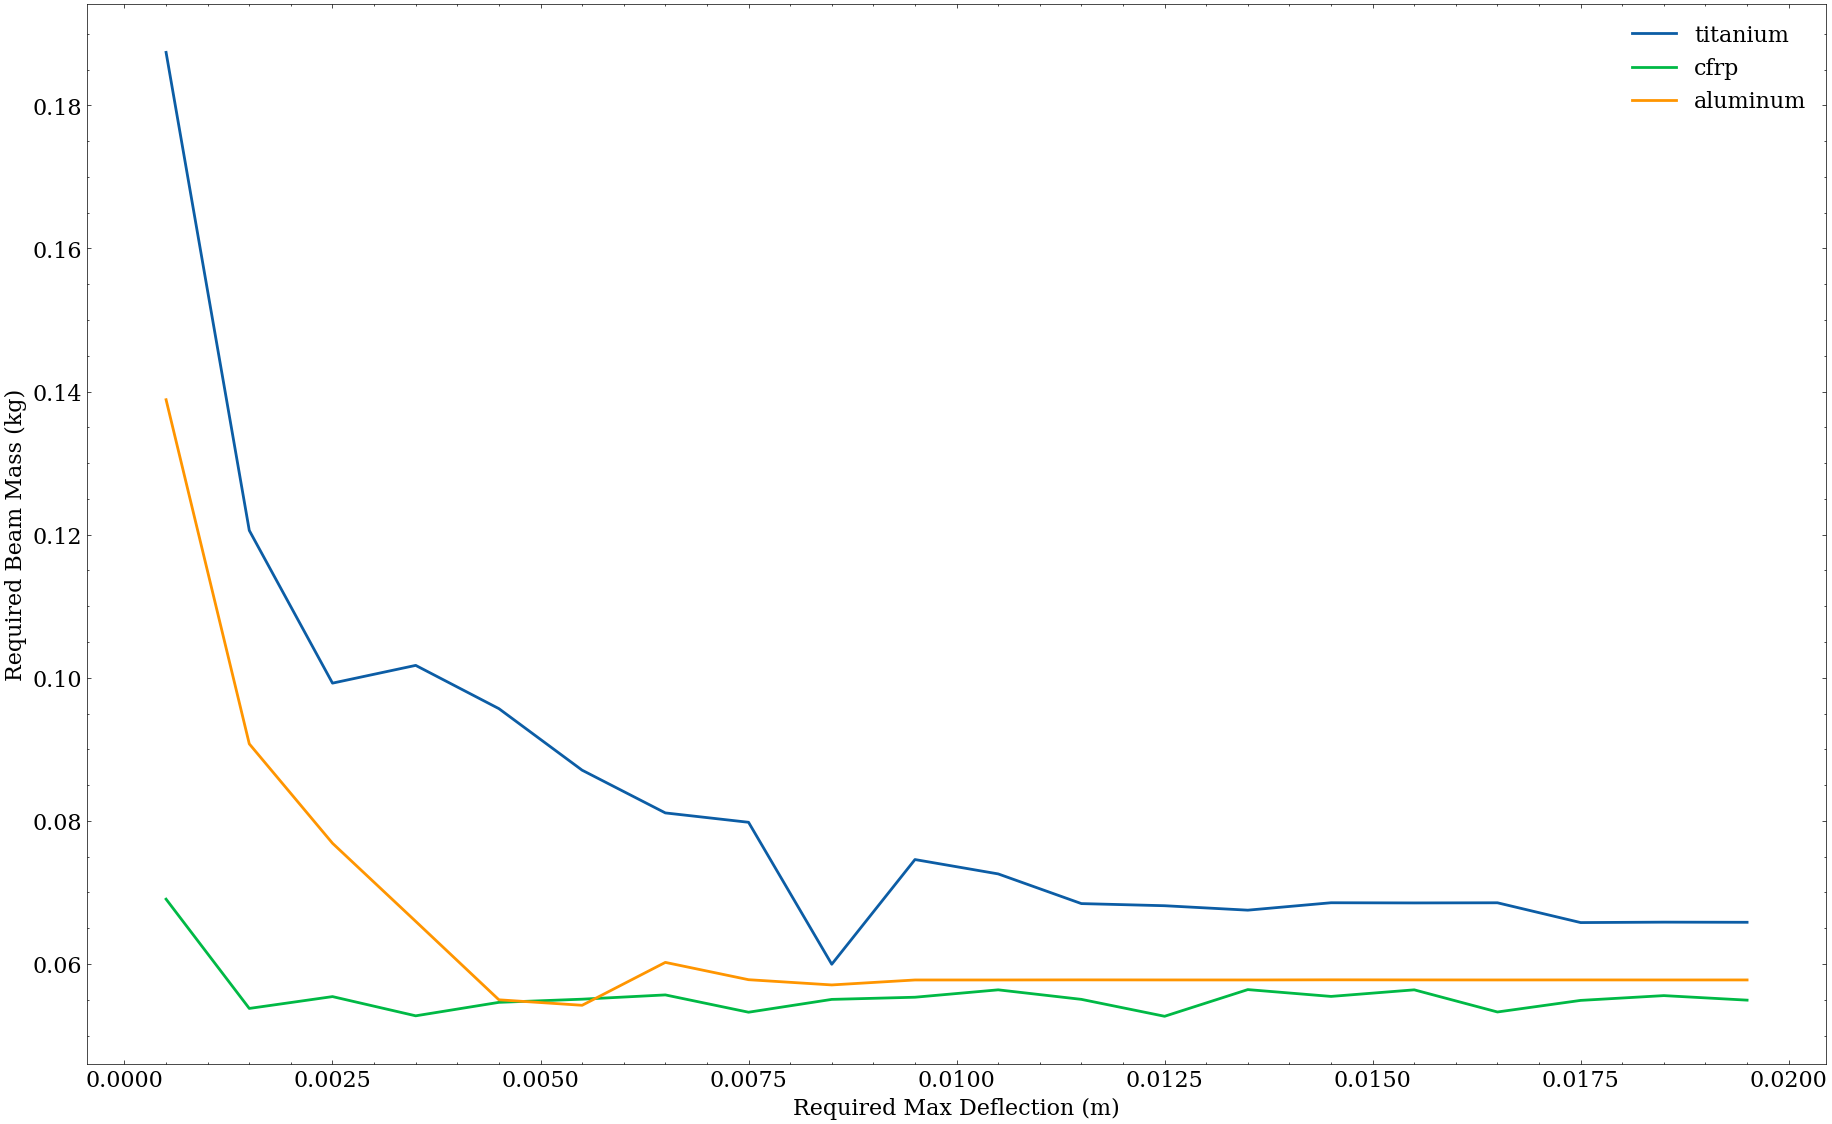
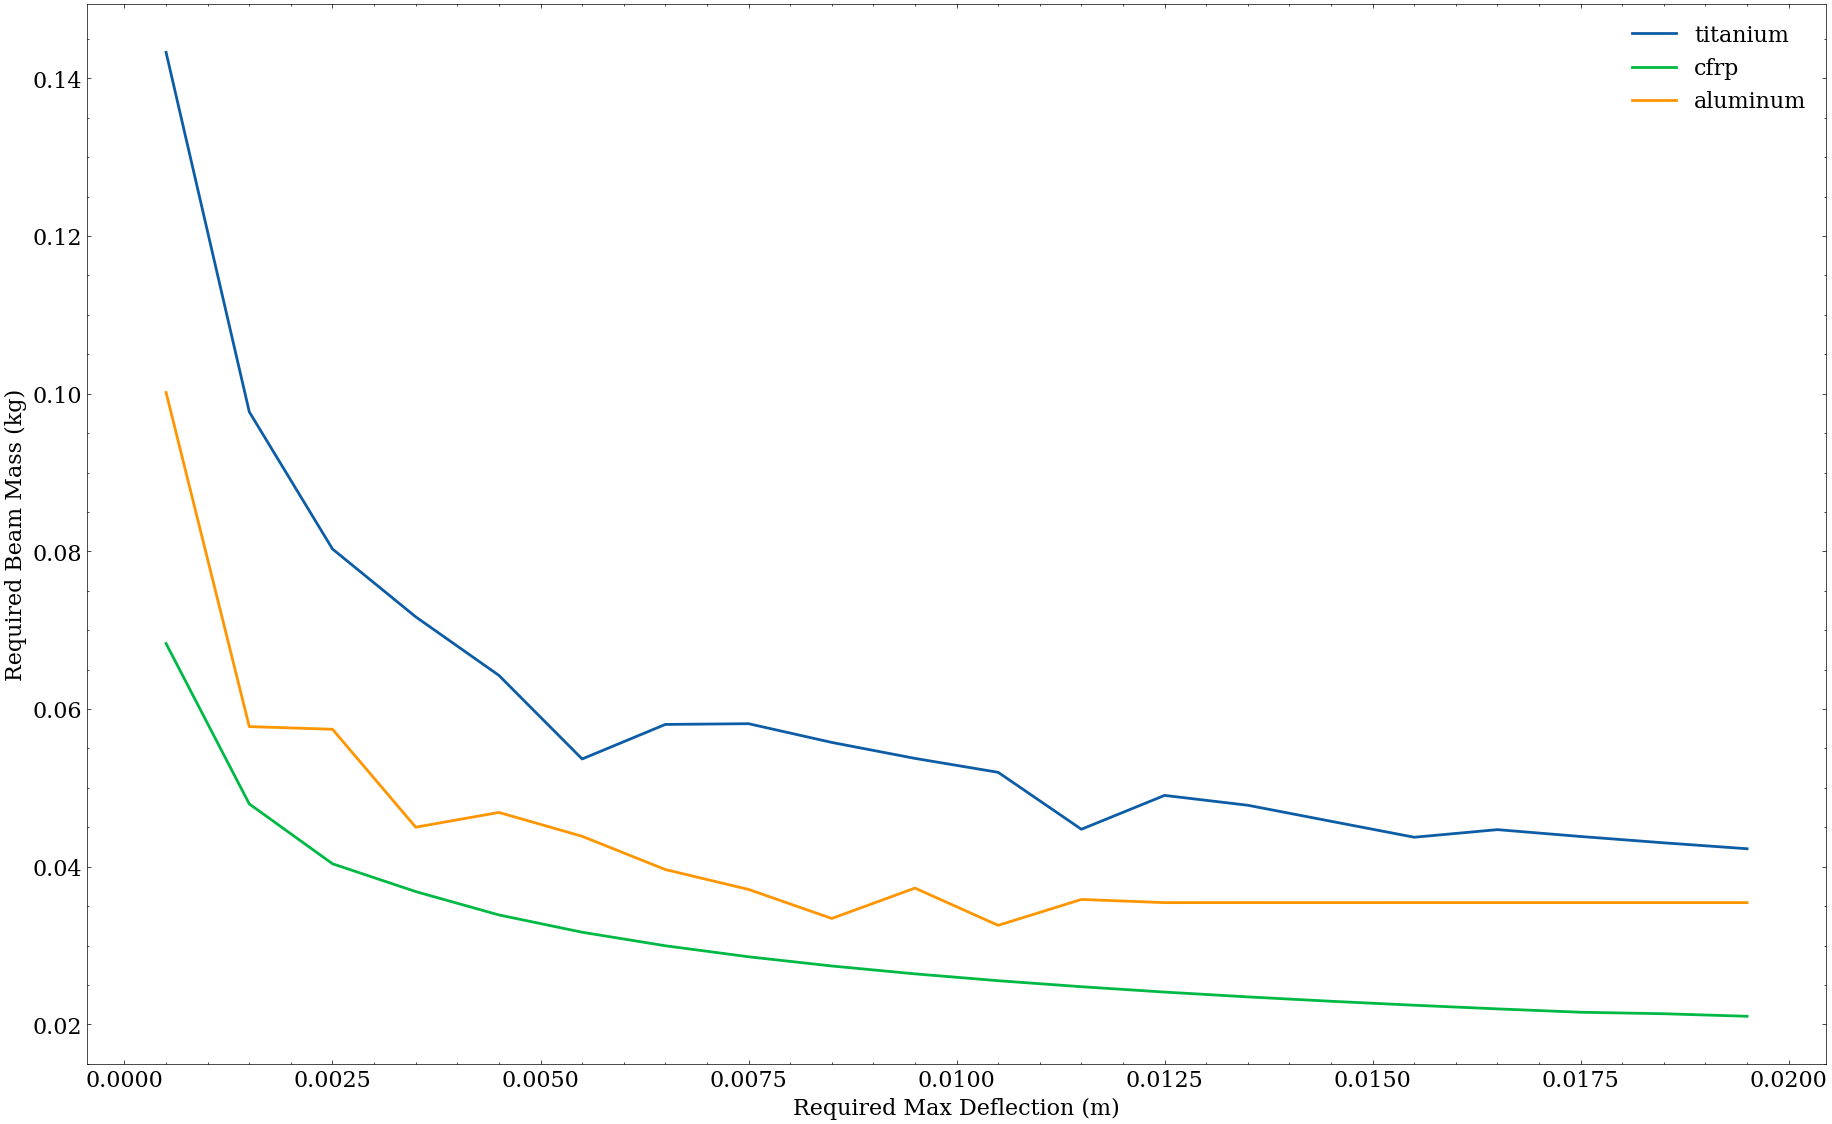
Fix errata in beam opt post

diff --git a/assets/css/extended/custom.css b/assets/css/extended/custom.css
@@ -1,4 +1,4 @@
 .post-content p {
-    text-align: justify;
-    /* text-align: left; */
+    /* text-align: justify; */
+    text-align: left;
 }

diff --git a/content/posts/2023-04-17.md b/content/posts/2023-04-17.md
@@ -72,23 +72,23 @@ J = \frac{\pi}{2} (R^4 - r^4)
 Now that we've simplified the problem down to a cantilever beam with a hollow cylindrical cross-section, we can use several equations that will describe deflection and stress acting on the system.
 
 ### Shear Stress
-Max shear stress for a beam with a thin-walled tube*
+Max shear stress for a beam with a thin-walled tube [1]
 $$ \begin{equation}
 \tau_{beam, max} = \frac{2 F}{A} = \frac{2 F}{\pi (R^2 - r^2)}
 \end{equation} $$
 
-Shear stress due to torsion for a circular shaft*
+Shear stress due to torsion for a circular shaft [1]
 $$ \begin{equation}
 \tau_{torsion} = \frac{M_x R}{J} = \frac{F L_y R}{\frac{\pi}{2} (R^4 - r^4)}
 \end{equation} $$
 
-Max shear stress for a thin-walled tube with downward force and torsion
+Combining the two to get overall max shear stress:
 $$ \begin{equation}
 \tau_{max} = \tau_{torsion} + \tau_{beam, max}
 \end{equation} $$
 
 ### Tensile Stress
-Max tensile stress for a beam due to bending*
+Max tensile stress for a beam due to bending [1]
 $$ \begin{equation}
 \sigma_{max} = \frac{M_y c}{I} = \frac{F L_x R}{\frac{\pi}{4} (R^4 - r^4)}
 \end{equation} $$
@@ -97,14 +97,10 @@ $$ \begin{equation}
 
 ![Deflection of a cantilever beam](/images/2023-04-17/deflection.png)
 
-Deflection of a cantilever beam due to a force on the tip**
+Deflection of a cantilever beam due to a force on the tip [2]
 $$ \begin{equation}
 \delta_{max} = \frac{F L_x^3}{3 E I} = \frac{F L_x^3}{3 E \frac{\pi}{4} (R^4 - r^4)}
 \end{equation} $$
-
-*[BasicStressEqns-DBWallace.pdf](http://faculty.fairfield.edu/wdornfeld/ME311/BasicStressEqns-DBWallace.pdf)
-
-**[FE Reference Handbook, 9.4 Edition](https://www.cee.msstate.edu/wp-content/NCEES%20FE%20Reference%20Manual%20-%202018.pdf)
 
 ## Optimization
 
@@ -144,12 +140,15 @@ Let's look at three of the most popular materials when it comes to lightweight s
 | -----------   | -----------          | -----------    | -----------    | -----------      |
 | [Annealed Grade 5 Titanium](https://www.makeitfrom.com/material-properties/Annealed-Grade-5-Titanium) | 110e9    | 600e6          | 910e6          | 4430             |
 | [Aluminum 7075-T6](https://www.makeitfrom.com/material-properties/7075-T6-Aluminum)          | 70e9     | 330e6          | 480e6          | 2710             |
-| [CFRP Tube, 0/90 Ply](http://www.performance-composites.com/carbonfibre/mechanicalproperties_2.asp)       | 517e9    | 90e6           | 600e6          | 1522             |
+| [CFRP Tube, 0/90 Ply](https://dragonplate.com/images/uploaded/pdfs/fiberspecs/34_700_03_2010.pdf)       | 132e9    | 102e6           | 1745e6          | 1522             |
 
+Bear in mind that there CFRP comes in many flavors: different ply orientations, grades of fabric quality, types of epoxy, and fabrication methods. As such, there can be an absolutely staggering amount of variation in material properties between one CFRP product and the next. For simplicity, I am choosing one particular product, [a commonly used CFRP tube from Dragonplate](https://dragonplate.com/carbon-fiber-roll-wrapped-twill-tube-2-id-x-96-thin-wall-gloss-finish).
 
-Because CFRP is anisotropic, we should take our CFRP-based predictions with a larger grain of salt than with the metals. As such, while I'm using a safety factor of 2 for titanium and aluminum, I'm using a whopping safety factor of 4 for CFRP.
+We also need to be extra careful when making theoretical predictions about composites because of their anisotropy. In metals like titanium and aluminum, the yield strength and Young's modulus are basically identical in every direction. But, for example, in CFRP the compressive modulus can be as low as 1/10th of the tensile modulus in some cases. What does this mean for a CFRP beam in bending? Well, a beam in bending is partially in tension and partially in compression, so its equivalent Young's modulus and yield strength are some combination of the composite's tensile and compressive moduli and strengths. This is known as flexural modulus and flexural strength, which is what we should be using here. Furthermore, we should be careful to choose the modulus and strength ratings for the correct ply orientation; in this case 0 degrees.
 
-Finally, I found that deciding on minimum thicknesses $t_{min}$ is very tricky. In the end, I went with the pragmatic approach of checking the minimum tube thicknesses available online for each material. For titanium and aluminum, that's 0.4064 mm (~1/64"), whereas for CFRP it's 0.762 mm (~0.03").
+As for minimum wall thickness, I found that deciding on $t_{min}$ was very tricky. In the end, I went with the pragmatic approach of checking the minimum tube thicknesses available online for each material. For titanium and aluminum, that's 0.4064 mm (~1/64"), whereas for CFRP it's 0.762 mm (~0.03").
+
+Note that in the real world, risk of impact to the sides of the tube may drive your required wall thickness up.
 
 ## Results
 I used [NLOPT](https://nlopt.readthedocs.io/en/latest/NLopt_Python_Reference/), a library for nonlinear optimization, to solve the aforementioned optimization problem. The code can be found [here](https://github.com/bbokser/beam-opt).
@@ -158,75 +157,79 @@ I used [NLOPT](https://nlopt.readthedocs.io/en/latest/NLopt_Python_Reference/), 
 | -----------   | -----------          | -----------    | -----------    | -----------      |
 | [Annealed Grade 5 Titanium](https://www.makeitfrom.com/material-properties/Annealed-Grade-5-Titanium) | 34.357    | 33.972          | 0.385          | 0.110            |
 | [Aluminum 7075-T6](https://www.makeitfrom.com/material-properties/7075-T6-Aluminum)          | 39.463     | 39.063          | 0.400          | 0.0798             |
-| [CFRP Tube, 0/90 Ply](http://www.performance-composites.com/carbonfibre/mechanicalproperties_2.asp)       | 20.834    | 20.072           | 0.762          | 0.0447             |
+| [CFRP Tube, 0/90 Ply](https://dragonplate.com/images/uploaded/pdfs/fiberspecs/34_700_03_2010.pdf)       | 26.442    | 25.722           | 0.719          | 0.0538             |
 
 ## Analysis
-After looking at the equations from earlier, one's first impression might be that the cylinder radius should jump to the maximum radius possible. This is not the case, because doing so would enlarge the cross-sectional area (and therefore mass) unnecessarily. Instead, it's all about minimum wall thickness.
+After looking at the equations from earlier, one's first impression might be that the cylinder radius should jump to the maximum radius possible. This is not the case, because doing so would enlarge the cross-sectional area (and therefore mass) unnecessarily. Instead, it's all about minimum wall thickness. As an example, [optimizing inner and outer radii given a specified minimum wall thickness:](https://github.com/bbokser/beam-opt/blob/main/src/compare_thmin_mass.py)
 
 ![Wall Thickness Comparison](/images/2023-04-17/compare-thmin.png)
-[The Code](https://github.com/bbokser/beam-opt/blob/main/src/compare_thmin_mass.py)
 
 As previously mentioned, you want to squeeze your geometry into as thin of a band as possible to take advantage of the second moment of area without using up too much cross-sectional area.
 
 Note that if minimum wall thickness were no object (i.e. you could have infinitesimal walls), then the optimal choice *would* be to maximize your radius! Sadly, we live in the real world, where we have to care about manufacturability or fabricatability.
 
-With the given boundary conditions, the deflection limit is the next deciding factor after minimum wall thickness. As an example, using an end-effector mass of 80 kg:
+With the given boundary conditions, the deflection limit is the next deciding factor after minimum wall thickness. As an example, [optimizing inner and outer radii given a specified maximum deflection:](https://github.com/bbokser/beam-opt/blob/main/src/compare_defmax_mass.py)
 
 ![Deflection Limit Comparison](/images/2023-04-17/compare-def.png)
-[The Code](https://github.com/bbokser/beam-opt/blob/main/src/compare_defmax_mass.py)
 
 Of course, if the deflection limit is high enough, it becomes irrelevant and the shear and tensile stresses become more important.
 
-## Dethroning CFRP
-
-Despite the doubled safety factor and higher minimum thickness, CFRP is the clear winner in our example scenario. But is it always? Let's see if we can dethrone CFRP by hitting it where it hurts: the shear strength. As you may have noticed from the first table, 0/90 ply CFRP has a much lower shear strength than either aluminum or titanium. We can increase shear stress by increasing the axial offset distance $L_y$:
-
-![Axial Offset Comparison](/images/2023-04-17/compare-offset.png)
-
-[The Code](https://github.com/bbokser/beam-opt/blob/main/src/compare_axial_mass.py)
-
-You can see that as $L_y$ (and therefore torsion) increases, the CFRP begins to lose its advantage over the other two options. The other two remain constant because their shear stress limits are not reached.
-
 ## Size vs. Strength
 
-I have to admit that I was initially left scratching my head after looking at these plots. You may find yourself asking the same question:
+I have to admit that I was initially left scratching my head after looking at these plots. After all, *why would the optimal titanium beam be heavier than the optimal aluminum beam if the specific strength of titanium is greater?*
 
-> "Why is the optimal titanium beam heavier than the optimal aluminum beam if titanium has a higher specific strength than aluminum?"
+Recall Equations (5) through (8): the torsional stress, tensile stress, and deflection are all inversely proportional to the 4th power of the radius.
 
-Recall Equations (5) through (8): the torsional stress, tensile stress, and deflection are all inversely proportional to the 4th power of the radius, whereas area (and therefore mass) is proportional to the 2nd power of the radius. This means that increasing the radius will reduce material stress at a greater rate than it will increase mass. As such, geometry can be more important than specific strength when it comes to saving weight!
 
-<!-- Of course, CFRP has both the lowest density and the highest stiffness, which is why it performs so well when we have free reign over the geometry. -->
+{{< katex >}} 
+$$
+\begin{align*}
+\tau_{max}  \propto \frac{1}{R^4}
+\end{align*}
+$$
+{{< /katex >}} 
 
->"Okay, so we should 3D print everything out of foaming PLA instead of using metal?"
+{{< katex >}} 
+$$
+\begin{align*}
+\sigma_{max} \propto \frac{1}{R^4}
+\end{align*}
+$$
+{{< /katex >}} 
 
-In most cases, absolutely not! First of all, keep in mind that in pure compression (no shear or bending stresses) this doesn't apply, unless buckling comes into play.
+{{< katex >}} 
+$$
+\begin{align*}
+\delta_{max} \propto \frac{1}{R^4}
+\end{align*}
+$$
+{{< /katex >}} 
 
-Anyway, in most cases your design will have more stringent constraints on the bounding box of the design, and given a small enough maximum radius, the material with the higher specific strength will win. For example, say we were to reduce the outer radius of the aluminum beam down to that of the optimal titanium beam. 
+On the other hand, area (and therefore mass) is proportional to merely the 2nd power of the radius.
 
-Let's see how that looks: optimizing for inner radius $r$ only given a constant outer radius $R$, with an end-effector load of 80 kg:
+{{< katex >}} 
+$$
+\begin{align*}
+A \propto R^2
+\end{align*}
+$$
+{{< /katex >}} 
 
-| Material      | R (mm) | r (mm) | Thickness (mm) | Mass (kg) |
-| -----------   | -----------          | -----------    | -----------    | -----------      |
-| [Annealed Grade 5 Titanium](https://www.makeitfrom.com/material-properties/Annealed-Grade-5-Titanium) | 30.0    | 26.362          | 3.639          | 0.856            |
-| [Aluminum 7075-T6](https://www.makeitfrom.com/material-properties/7075-T6-Aluminum)          | 30.0     | 22.215          | 7.785          | 1.038             |
-| [CFRP Tube, 0/90 Ply](http://www.performance-composites.com/carbonfibre/mechanicalproperties_2.asp)       | 30.0    | 28.619           | 1.381         | 0.116             |
+**This means that with increasing radius, stress and deflection drop faster than mass increases!**
 
-[The Code](https://github.com/bbokser/beam-opt/blob/main/src/compare_radius_mass.py)
+Now, does this mean we should just 3D print everything out of foaming PLA? In most cases, absolutely not! First of all, keep in mind that this relationship only holds in situations where second moment of area is important. For example, in bending or buckling as opposed to pure compression or tension.
 
-This time the titanium beam is lighter!
+In addition, you will usually have more stringent constraints on the bounding box of the design, and once your maximum radius is sufficiently limited, the material with the higher specific strength will win. 
 
-As you can see, second moment of area is more important than specific strength--if you have the space to exploit it.
+For example, [optimizing for inner radius $r$ only given a specified maximum outer radius $R$](https://github.com/bbokser/beam-opt/blob/main/src/compare_thmin_mass.py):
 
-## Limitations
-There are many other practical and theoretical factors that go into structural design that were out of the scope of this blog post. Here are some listed below:
+![Wall Thickness Comparison](/images/2023-04-17/compare-radius.png)
 
-- My optimization code is finicky and I have to do some playing around with the warm starting to prevent it from breaking. I should figure out how to make it a more robust tool.
-- This analysis only looks at beams of constant radius. Beam taper actually makes a significant difference, and it's something I may cover in a future blog post...
-- CFRP can't be machined whereas titanium and aluminum can. That means CFRP usually requires extra interfacing components, which increases its effective weight.
-- Risk of impact to the sides of the tube is an important consideration which I completely ignored in this analysis (and it's why I don't think CFRP bikes are worth the cost).
-- Be careful about where you order CFRP from. The actual carbon fiber content (vs epoxy) per unit volume varies wildly between manufacturers, so you can't just look at the dimensions!
-- Manufacturing cost: Aluminum is the cheapest by far.
-- Fabrication: CFRP is difficult to work with and has health risks.
-- Thermal properties: the metals win here.
-- Corrosion: CFRP wins here, although it can cause corrosion in contact with metals.
-- And more...
+You can see here that second moment of area dominates the beam moment problem overall, but for sufficiently low $R$, titanium wins.
+
+So second moment of area can be more important than specific strength... provided you have the space to exploit it.
+
+## References
+[1] [BasicStressEqns-DBWallace.pdf](http://faculty.fairfield.edu/wdornfeld/ME311/BasicStressEqns-DBWallace.pdf)
+
+[2] [FE Reference Handbook, 9.4 Edition](https://www.cee.msstate.edu/wp-content/NCEES%20FE%20Reference%20Manual%20-%202018.pdf)
